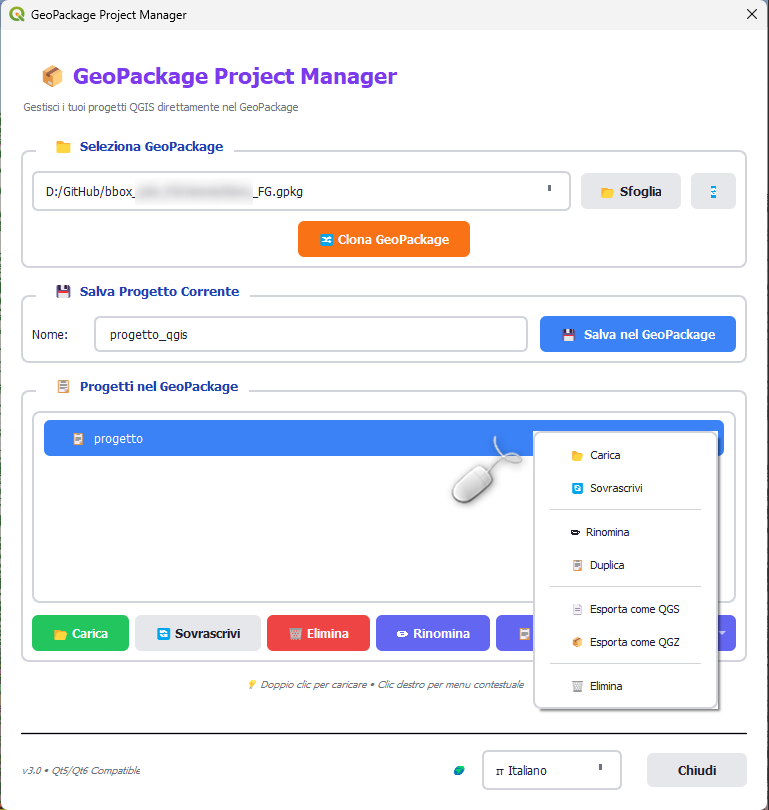
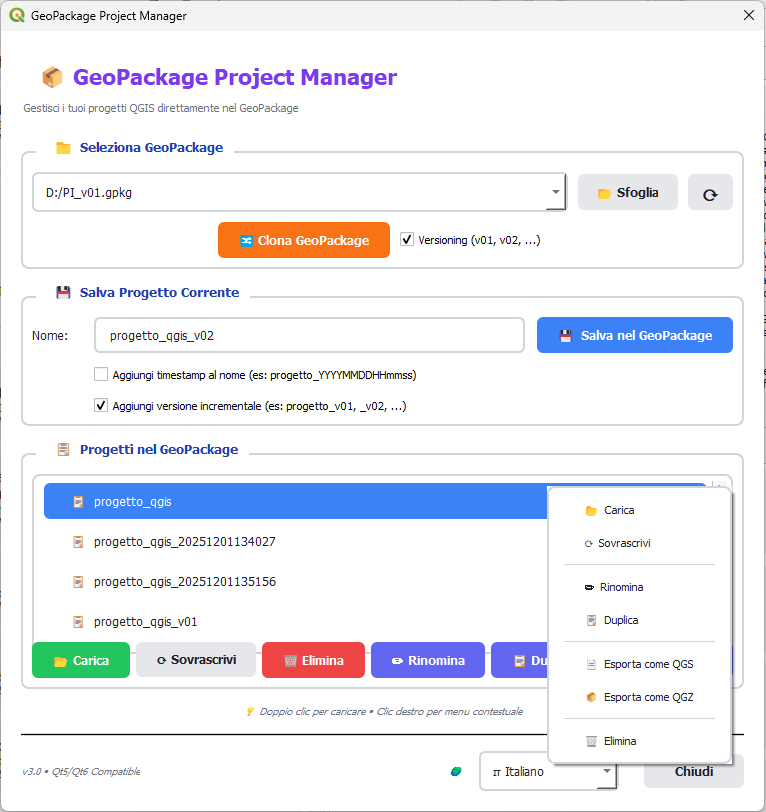
feat: aggiunta di opzioni per versioning e timestamp nel salvataggio del GeoPackage

diff --git a/i18n/gpkg_project_manager_en.ts b/i18n/gpkg_project_manager_en.ts
@@ -67,6 +67,22 @@
         <translation>💾  Save in GeoPackage</translation>
     </message>
     <message>
+        <source>Aggiungi timestamp al nome (es: progetto_YYYYMMDDHHmmss)</source>
+        <translation>Add timestamp to name (e.g.: project_YYYYMMDDHHmmss)</translation>
+    </message>
+    <message>
+        <source>Aggiungi versione incrementale (es: progetto_v01, _v02, ...)</source>
+        <translation>Add incremental version (e.g.: project_v01, _v02, ...)</translation>
+    </message>
+    <message>
+        <source>Raggiunto il limite massimo di versioni (v99).</source>
+        <translation>Maximum version limit reached (v99).</translation>
+    </message>
+    <message>
+        <source>Versioning (v01, v02, ...)</source>
+        <translation>Versioning (v01, v02, ...)</translation>
+    </message>
+    <message>
         <source>  📋  Progetti nel GeoPackage</source>
         <translation>  📋  Projects in GeoPackage</translation>
     </message>

diff --git a/dialogs.py b/dialogs.py
@@ -11,7 +11,7 @@ from qgis.PyQt.QtWidgets import (
     QPushButton, QComboBox, QListWidget, QListWidgetItem,
     QFileDialog, QMessageBox, QGroupBox, QFrame,
     QAbstractItemView, QSizePolicy, QInputDialog,
-    QToolButton, QWidget, QProgressDialog, QApplication, QMenu
+    QToolButton, QWidget, QProgressDialog, QApplication, QMenu, QCheckBox
 )
 from qgis.PyQt.QtCore import Qt, QSize, QTimer, QSettings, QCoreApplication
 from qgis.PyQt.QtGui import QFont, QColor, QPalette, QIcon
@@ -20,6 +20,7 @@ import sqlite3
 import os
 import shutil
 import re
+from datetime import datetime
 
 # Import custom TS translator
 try:
@@ -487,7 +488,7 @@ class GeoPackageProjectManagerDialog(QDialog):
 
         gpkg_layout.addLayout(gpkg_select_layout)
 
-        # Pulsante Clone GeoPackage
+        # Pulsante Clone GeoPackage e opzioni
         clone_layout = QHBoxLayout()
         clone_layout.addStretch()
         self.btn_clone_gpkg = QPushButton(self.tr("🔀 Clona GeoPackage"))
@@ -495,6 +496,13 @@ class GeoPackageProjectManagerDialog(QDialog):
         self.btn_clone_gpkg.setToolTip(self.tr("Crea una copia del GeoPackage con percorsi aggiornati"))
         self.btn_clone_gpkg.clicked.connect(self.clona_geopackage)
         clone_layout.addWidget(self.btn_clone_gpkg)
+
+        # Checkbox per aggiungere versione al clone
+        self.chk_clone_add_version = QCheckBox(self.tr("Versioning (v01, v02, ...)"))
+        self.chk_clone_add_version.setChecked(QSettings().value('gpkg_project_manager/clone_add_version', False, type=bool))
+        self.chk_clone_add_version.stateChanged.connect(self.on_clone_version_changed)
+        clone_layout.addWidget(self.chk_clone_add_version)
+
         clone_layout.addStretch()
         gpkg_layout.addLayout(clone_layout)
 
@@ -519,6 +527,30 @@ class GeoPackageProjectManagerDialog(QDialog):
         name_layout.addWidget(self.btn_salva)
 
         save_layout.addLayout(name_layout)
+
+        # Checkbox per aggiungere timestamp (allineata con il campo nome)
+        timestamp_layout = QHBoxLayout()
+        timestamp_spacing = QLabel("")  # Label vuota per allineamento
+        timestamp_spacing.setFixedWidth(50)
+        timestamp_layout.addWidget(timestamp_spacing)
+        self.chk_add_timestamp = QCheckBox(self.tr("Aggiungi timestamp al nome (es: progetto_YYYYMMDDHHmmss)"))
+        self.chk_add_timestamp.setChecked(QSettings().value('gpkg_project_manager/add_timestamp', False, type=bool))
+        self.chk_add_timestamp.stateChanged.connect(self.on_timestamp_changed)
+        timestamp_layout.addWidget(self.chk_add_timestamp)
+        timestamp_layout.addStretch()
+        save_layout.addLayout(timestamp_layout)
+
+        # Checkbox per aggiungere versione (allineata con il campo nome)
+        version_layout = QHBoxLayout()
+        version_spacing = QLabel("")  # Label vuota per allineamento
+        version_spacing.setFixedWidth(50)
+        version_layout.addWidget(version_spacing)
+        self.chk_add_version = QCheckBox(self.tr("Aggiungi versione incrementale (es: progetto_v01, _v02, ...)"))
+        self.chk_add_version.setChecked(QSettings().value('gpkg_project_manager/add_version', False, type=bool))
+        self.chk_add_version.stateChanged.connect(self.on_version_changed)
+        version_layout.addWidget(self.chk_add_version)
+        version_layout.addStretch()
+        save_layout.addLayout(version_layout)
 
         layout.addWidget(save_group)
 
@@ -812,6 +844,21 @@ class GeoPackageProjectManagerDialog(QDialog):
                 # Reopen plugin
                 QTimer.singleShot(100, self.plugin.run)
 
+    def on_timestamp_changed(self, state):
+        """Handle timestamp checkbox state change."""
+        settings = QSettings()
+        settings.setValue('gpkg_project_manager/add_timestamp', self.chk_add_timestamp.isChecked())
+
+    def on_version_changed(self, state):
+        """Handle version checkbox state change."""
+        settings = QSettings()
+        settings.setValue('gpkg_project_manager/add_version', self.chk_add_version.isChecked())
+
+    def on_clone_version_changed(self, state):
+        """Handle clone version checkbox state change."""
+        settings = QSettings()
+        settings.setValue('gpkg_project_manager/clone_add_version', self.chk_clone_add_version.isChecked())
+
     def salva_progetto(self):
         """Salva il progetto corrente nel GeoPackage."""
         if not self.gpkg_path:
@@ -822,6 +869,43 @@ class GeoPackageProjectManagerDialog(QDialog):
         if not nome_progetto:
             self.mostra_errore(self.tr("Attenzione"), self.tr("Inserisci un nome per il progetto."))
             return
+
+        # Rimuovi timestamp e versione esistenti per ottenere il nome base
+        nome_base = nome_progetto
+        # Rimuovi timestamp se presente (pattern: _YYYYMMDDHHmmss)
+        nome_base = re.sub(r'_\d{14}$', '', nome_base)
+        # Rimuovi versione se presente (pattern: _vNN)
+        nome_base = re.sub(r'_v\d{2}$', '', nome_base)
+
+        # Aggiungi versione incrementale se l'opzione è attivata
+        if self.chk_add_version.isChecked():
+            # Cerca la versione più alta esistente
+            progetti_esistenti = self.get_lista_nomi_progetti()
+            max_version = 0
+            # Pattern per trovare progetti con lo stesso nome base e versione
+            # Supporta anche timestamp opzionale alla fine
+            pattern = re.compile(rf'^{re.escape(nome_base)}_v(\d{{2}})(?:_\d{{14}})?$')
+
+            for progetto in progetti_esistenti:
+                match = pattern.match(progetto)
+                if match:
+                    version_num = int(match.group(1))
+                    max_version = max(max_version, version_num)
+
+            # Incrementa la versione
+            next_version = max_version + 1
+            if next_version > 99:
+                self.mostra_errore(self.tr("Errore"), self.tr("Raggiunto il limite massimo di versioni (v99)."))
+                return
+
+            nome_progetto = f"{nome_base}_v{next_version:02d}"
+        else:
+            nome_progetto = nome_base
+
+        # Aggiungi timestamp se l'opzione è attivata
+        if self.chk_add_timestamp.isChecked():
+            timestamp = datetime.now().strftime("%Y%m%d%H%M%S")
+            nome_progetto = f"{nome_progetto}_{timestamp}"
 
         if nome_progetto in self.get_lista_nomi_progetti():
             if not self.mostra_conferma(
@@ -1169,7 +1253,35 @@ class GeoPackageProjectManagerDialog(QDialog):
 
         # Chiedi il percorso di destinazione
         nome_originale = os.path.basename(self.gpkg_path)
-        nome_suggerito = nome_originale.replace('.gpkg', '_clone.gpkg')
+        nome_base = nome_originale.replace('.gpkg', '')
+
+        # Determina il nome suggerito in base alle opzioni
+        if self.chk_clone_add_version.isChecked():
+            # Rimuovi versione esistente se presente (pattern: _vNN)
+            nome_base_pulito = re.sub(r'_v\d{2}$', '', nome_base)
+
+            # Cerca la versione più alta esistente nella directory di destinazione
+            directory_destinazione = os.path.dirname(self.gpkg_path)
+            max_version = 0
+
+            # Cerca file esistenti con pattern versione
+            if os.path.exists(directory_destinazione):
+                pattern = re.compile(rf'^{re.escape(nome_base_pulito)}_v(\d{{2}})\.gpkg$')
+                for filename in os.listdir(directory_destinazione):
+                    match = pattern.match(filename)
+                    if match:
+                        version_num = int(match.group(1))
+                        max_version = max(max_version, version_num)
+
+            # Incrementa la versione
+            next_version = max_version + 1
+            if next_version > 99:
+                self.mostra_errore(self.tr("Errore"), self.tr("Raggiunto il limite massimo di versioni (v99)."))
+                return
+
+            nome_suggerito = f"{nome_base_pulito}_v{next_version:02d}.gpkg"
+        else:
+            nome_suggerito = nome_originale.replace('.gpkg', '_clone.gpkg')
 
         file_path, _ = QFileDialog.getSaveFileName(
             self, self.tr("Salva Clone GeoPackage"),
